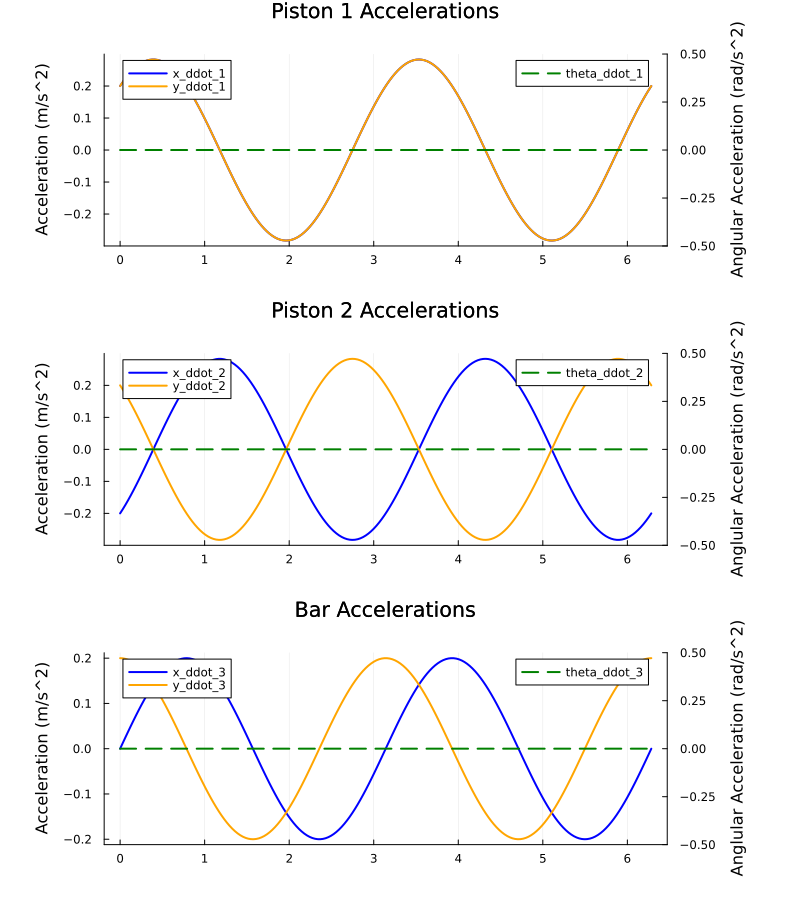
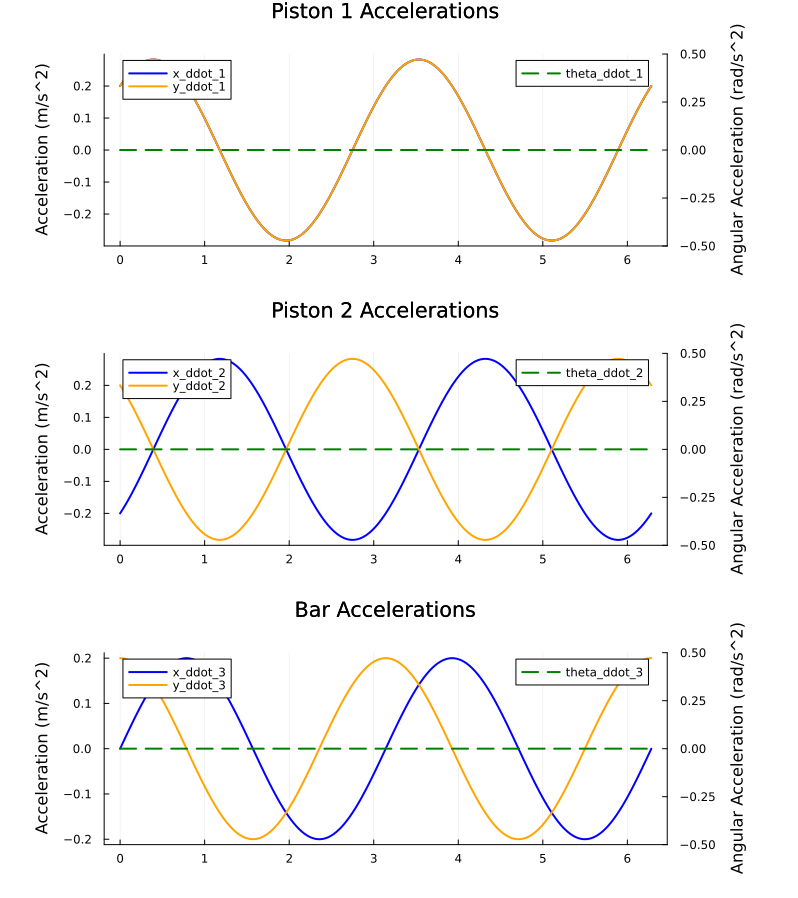
proofreading

Changed region(s): [[0.9023, 0.343, 0.9323, 0.6548], [0.9023, 0.686, 0.9323, 0.9666], [0.9023, 0.0312, 0.9323, 0.3118]]

diff --git a/README.md b/README.md
@@ -66,9 +66,9 @@ Several conclusions can be drawn from the results above. First, the piston traje
 
 From the position plots, one can observe that $x_1$, $y_1$, $\theta_1$, and $x_2$, $y_2$, $\theta_2$ are consistent with their respective constraint equations. This can also be observed for all generalized parameters in the velocity and acceleration plots, thus confirming that the constraints were implemented correctly and the simulation returned a valid solution. Furthermore, since the bar rotates at a constant rate, the position, velocity, and acceleration plots all exhibit sinusoidal behavior.  
 
-The analytical validation printout demonstrates that the numerical solver (using the NonlinearSolve package for positions and the backslash operator for velocities and accelerations) agrees with the analytical solution to within floating point precision. The constraint residual also remains effectively zero throughout the simulation, verifying that all constraints are satisfied at every time step.
+The analytical validation printout demonstrates that the numerical solver (using the NonlinearSolve package for positions and the backslash operator for velocities and accelerations) agrees with the analytical solution to within floating-point precision. The constraint residual also remains effectively zero throughout the simulation, verifying that all constraints are satisfied at every time step.
 
-Overall, this project demonstrates the capabilities of using constraint-based methods to solve kinematics problems. By creating constraint equations, computing their Jacobian, and solving for the system's position, velocity and acceleration at each time step, one can analyze complex problems without deriving explicit equations of motion. Furthermore, this general framework can be extended to systems with more bodies and/or constraints!
+Overall, this project demonstrates the capabilities of using constraint-based methods to solve kinematics problems. By creating constraint equations, computing their Jacobian, and solving for the system's position, velocity, and acceleration at each time step, one can analyze complex problems without deriving explicit equations of motion. Furthermore, this general framework can be extended to systems with more bodies and/or constraints!
 
 ## Derivations
 
@@ -133,7 +133,7 @@ y_2
 \end{aligned}
 $$
 
-Now, the rigid bar has length $L$ and it's local $x$-axis runs along its length. The center of the bar in global coordinates can be expressed as $\vec{R}\_{3} = [x_3, y_3]^T$. End A connects to Piston 1 at local coordinates $\vec{s}_{3A} = \left[-\frac{L}{2}, 0\right]^T$. In global coordinates, this can be expressed as:
+Now, the rigid bar has length $L$, and its local $x$-axis runs along its length. The center of the bar in global coordinates can be expressed as $\vec{R}\_{3} = [x_3, y_3]^T$. End A connects to Piston 1 at local coordinates $\vec{s}_{3A} = \left[-\frac{L}{2}, 0\right]^T$. In global coordinates, this can be expressed as:
 
 $$
 \begin{aligned}
@@ -382,7 +382,7 @@ $$
 \frac{d}{dt} \left(C_q \, \dot{\vec{q}}\right) + \frac{d}{dt}\left(\vec{C}_t\right) = \vec{0}
 $$
 
-The equation above can be re-written as:
+The equation above can be rewritten as:
 
 $$
 C_q \, \ddot{\vec{q}} = \vec{\gamma}
@@ -493,7 +493,7 @@ The solution process for the system above will consist of 3 sequential steps at 
 - Solve $C_q \, \dot{\vec{q}} = -\vec{C}_t$ for $\dot{\vec{q}}$ using positions found in Step 01.
 
 **Step 03: Solve for Accelerations (Linear)**
-- Solve $C_q \, \ddot{\vec{q}} = \vec{\gamma}$ for $\ddot{\vec{q}} using both positions found in Step 01 and velocities found in Step 02.
+- Solve $C_q \, \ddot{\vec{q}} = \vec{\gamma}$ for $\ddot{\vec{q}}$ using both positions found in Step 01 and velocities found in Step 02.
 
 The coordinates of the system above can also be solved for analytically. The analytical solution can be used as an initial guess for the numerical solver, and also as a benchmark to verify the numerical results. From constraint equations $C_5$ and $C_6$:
 
